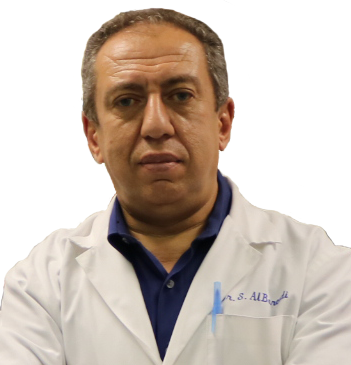
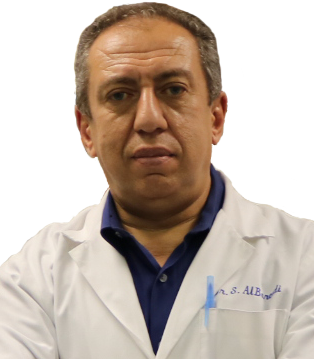
mobile functionality

diff --git a/style.css b/style.css
@@ -33,27 +33,6 @@ body {
   -ms-user-select: none; /* IE10+/Edge */
   user-select: none;
 }
-#backToTopBtn {
-  display: flex;
-  color: gainsboro;
-  justify-content: center;
-  align-items: center;
-  position: fixed;
-  bottom: 14%;
-  right: 24px;
-  border-radius: 50%;
-  height: 35px;
-  width: 35px;
-  border: none;
-  outline: none;
-  /* background-color: rgba(224, 224, 224, 0.5); */
-  background-color: #333;
-  opacity: 0.3;
-}
-.upIcon {
-  font-size: 20px;
-  margin-bottom: 2px;
-}
 /* ************************************ NAVBAR ****************************************** */
 #navOverlay {
   background: black;
@@ -98,7 +77,7 @@ body {
   font-family: "Russo One", sans-serif;
 }
 .logoTextBottom {
-  /* background-color: orange; */
+  background-color: orange;
   font-size: 14px;
   letter-spacing: 0.4px;
   font-family: "Titillium Web", sans-serif;
@@ -935,13 +914,14 @@ input.contactFormInput:valid + .formIcon {
   overflow: hidden;
   margin: 0px auto 20px;
   border: 4px solid gainsboro;
+  background-image: linear-gradient(-35deg, #5b5a5a 14%, #ffffff 100%);
 }
 .doctorImg {
   position: absolute;
   height: auto;
   width: 210px;
   top: 8px;
-  left: -7px;
+  left: -15px;
   pointer-events: none;
 }
 .doctorInfo {
@@ -1085,6 +1065,27 @@ footer {
 #emptyDockSpace {
   height: 58px;
 }
+#backToTopBtn {
+  display: flex;
+  color: gainsboro;
+  justify-content: center;
+  align-items: center;
+  position: fixed;
+  bottom: 14%;
+  right: 24px;
+  border-radius: 50%;
+  height: 35px;
+  width: 35px;
+  border: none;
+  outline: none;
+  /* background-color: rgba(224, 224, 224, 0.5); */
+  background-color: #333;
+  opacity: 0.3;
+}
+.upIcon {
+  font-size: 20px;
+  margin-bottom: 2px;
+}
 
 .slide-in-left {
   -webkit-animation: slide-in-left 0.5s cubic-bezier(0.25, 0.46, 0.45, 0.94)
@@ -1100,12 +1101,15 @@ footer {
 }
 
 /* FONTS */
-/* font-family: "Titillium Web", sans-serif; */
-/* font-family: "Open Sans", sans-serif; */
-/* font-family: 'Raleway', sans-serif; */
-/* font-family: "Source Serif Pro", serif; */
 /* font-family: "Fredoka One", cursive; */
+/* font-family: "Nanum Gothic", sans-serif; */
+/* font-family: "Open Sans", sans-serif; */
 /* font-family: "Poppins", sans-serif; */
+/* font-family: 'Raleway', sans-serif; */
+/* font-family: "Roboto", sans-serif; */
+/* font-family: "Source Serif Pro", serif; */
+/* font-family: "Titillium Web", sans-serif; */
+/* font-family: "Volkhov", serif; */
 
 /* background: linear-gradient(to bottom right, #ff9966 0%, #9900ff 100%); */
 /* box-shadow: 0 30px 40px 0 rgba(0, 0, 0, 0.15); */

diff --git a/index.html b/index.html
@@ -95,7 +95,11 @@
     <div id="wrapper">
       <nav id="navbar">
         <div id="navLogo">
-          <img id="mainLogo" src="./images/logo60blue.svg" />
+          <img
+            id="mainLogo"
+            class="unselectable"
+            src="./images/logo60blue.svg"
+          />
         </div>
         <div class="navLogoName">
           <div class="logoTextTop">Orthodontic</div>
